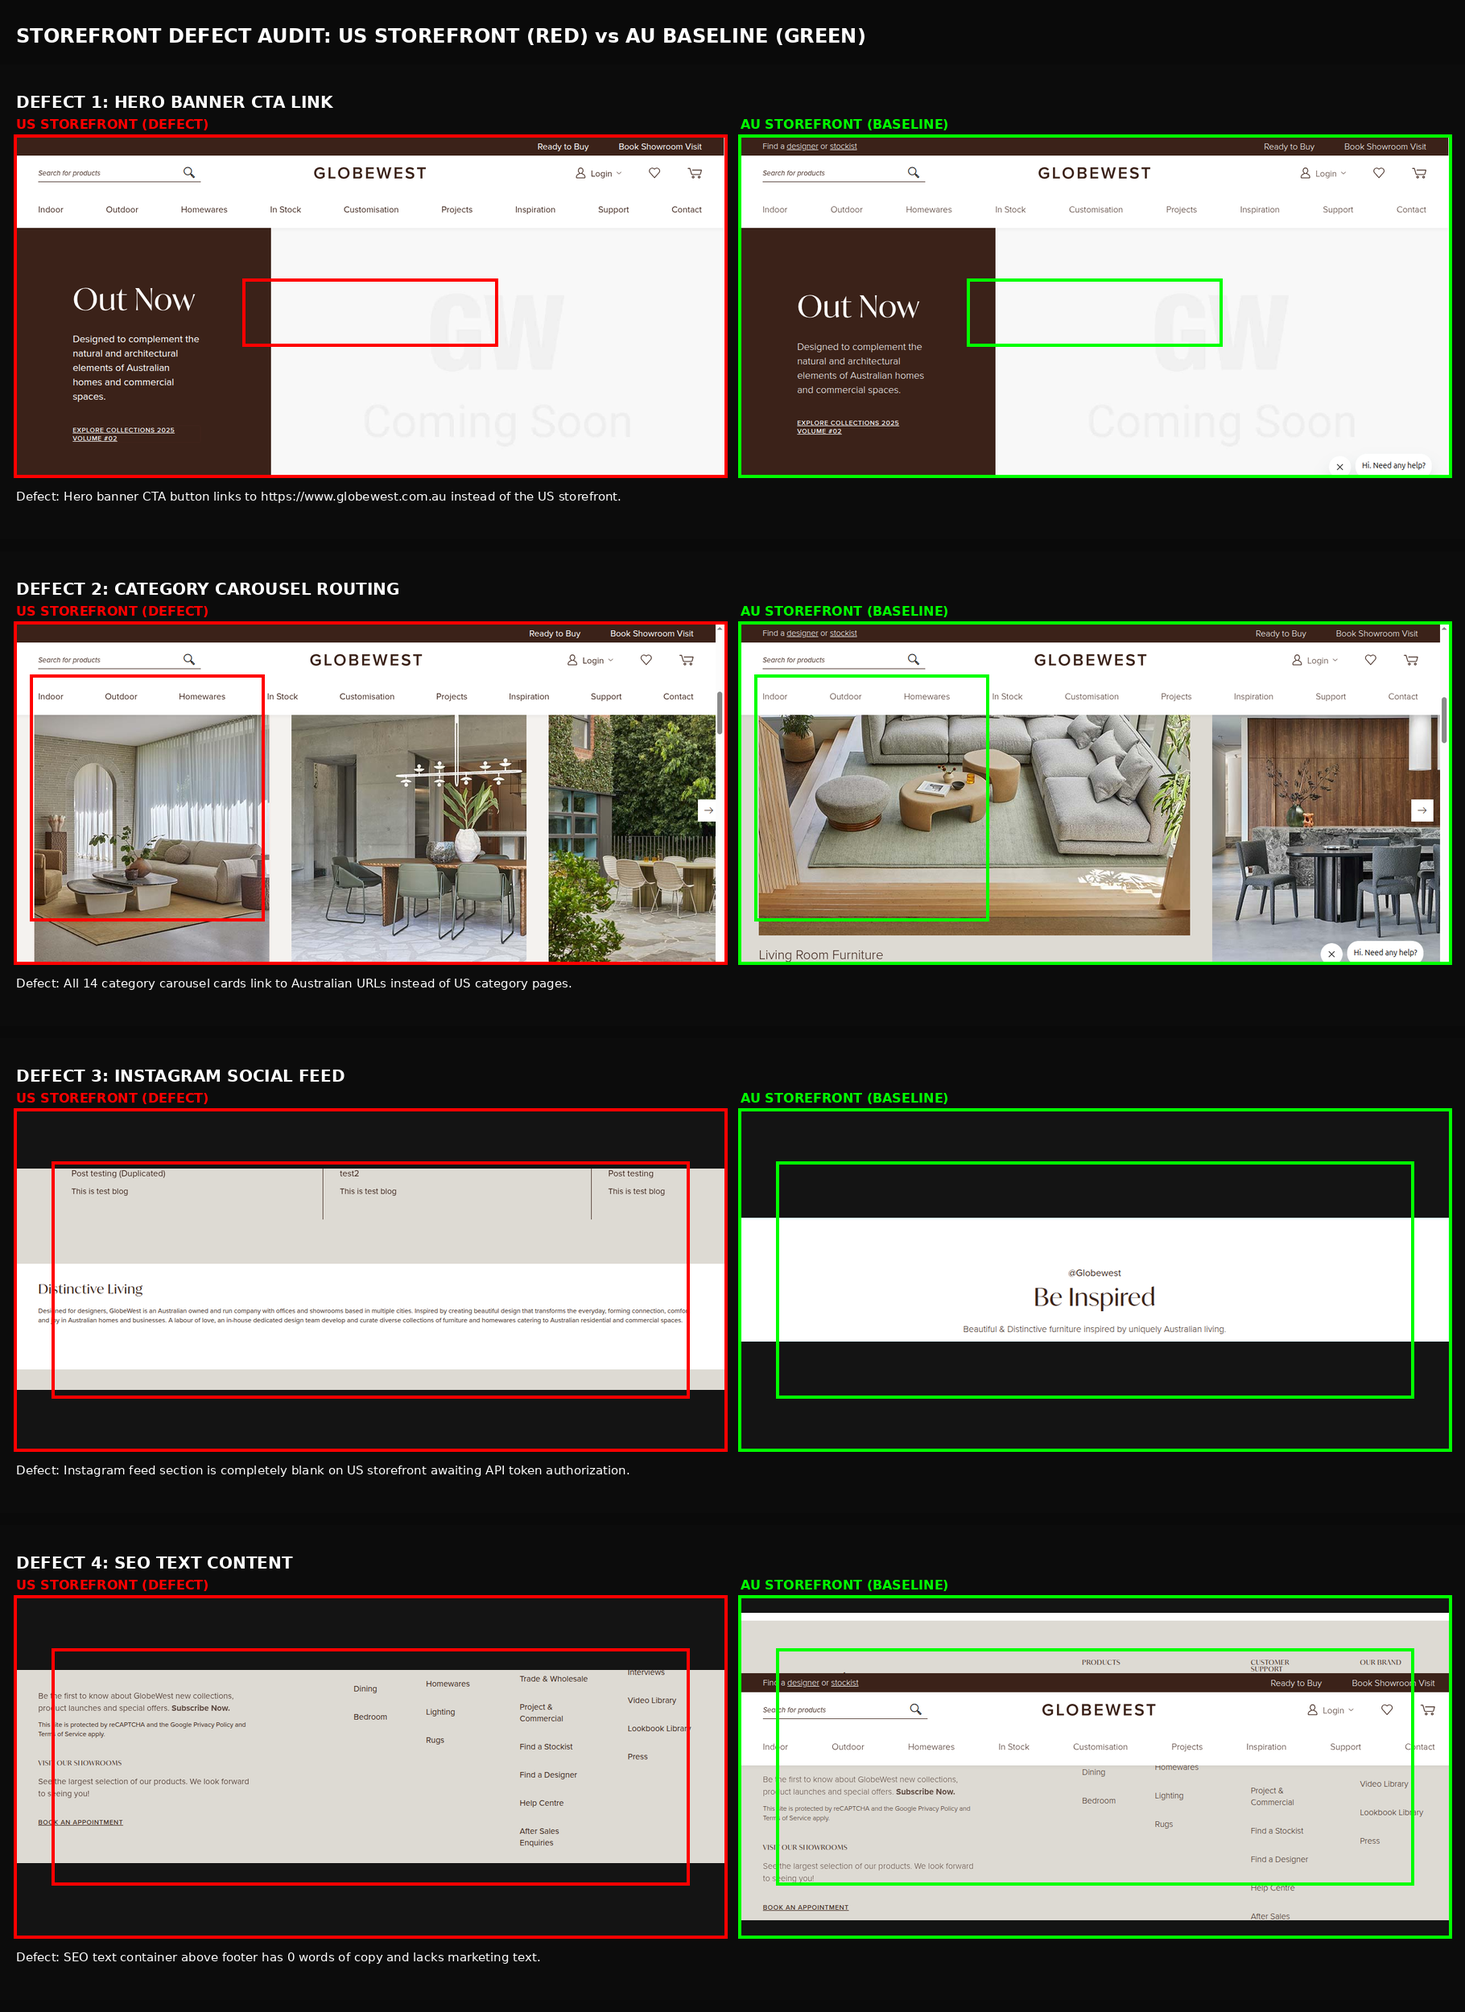
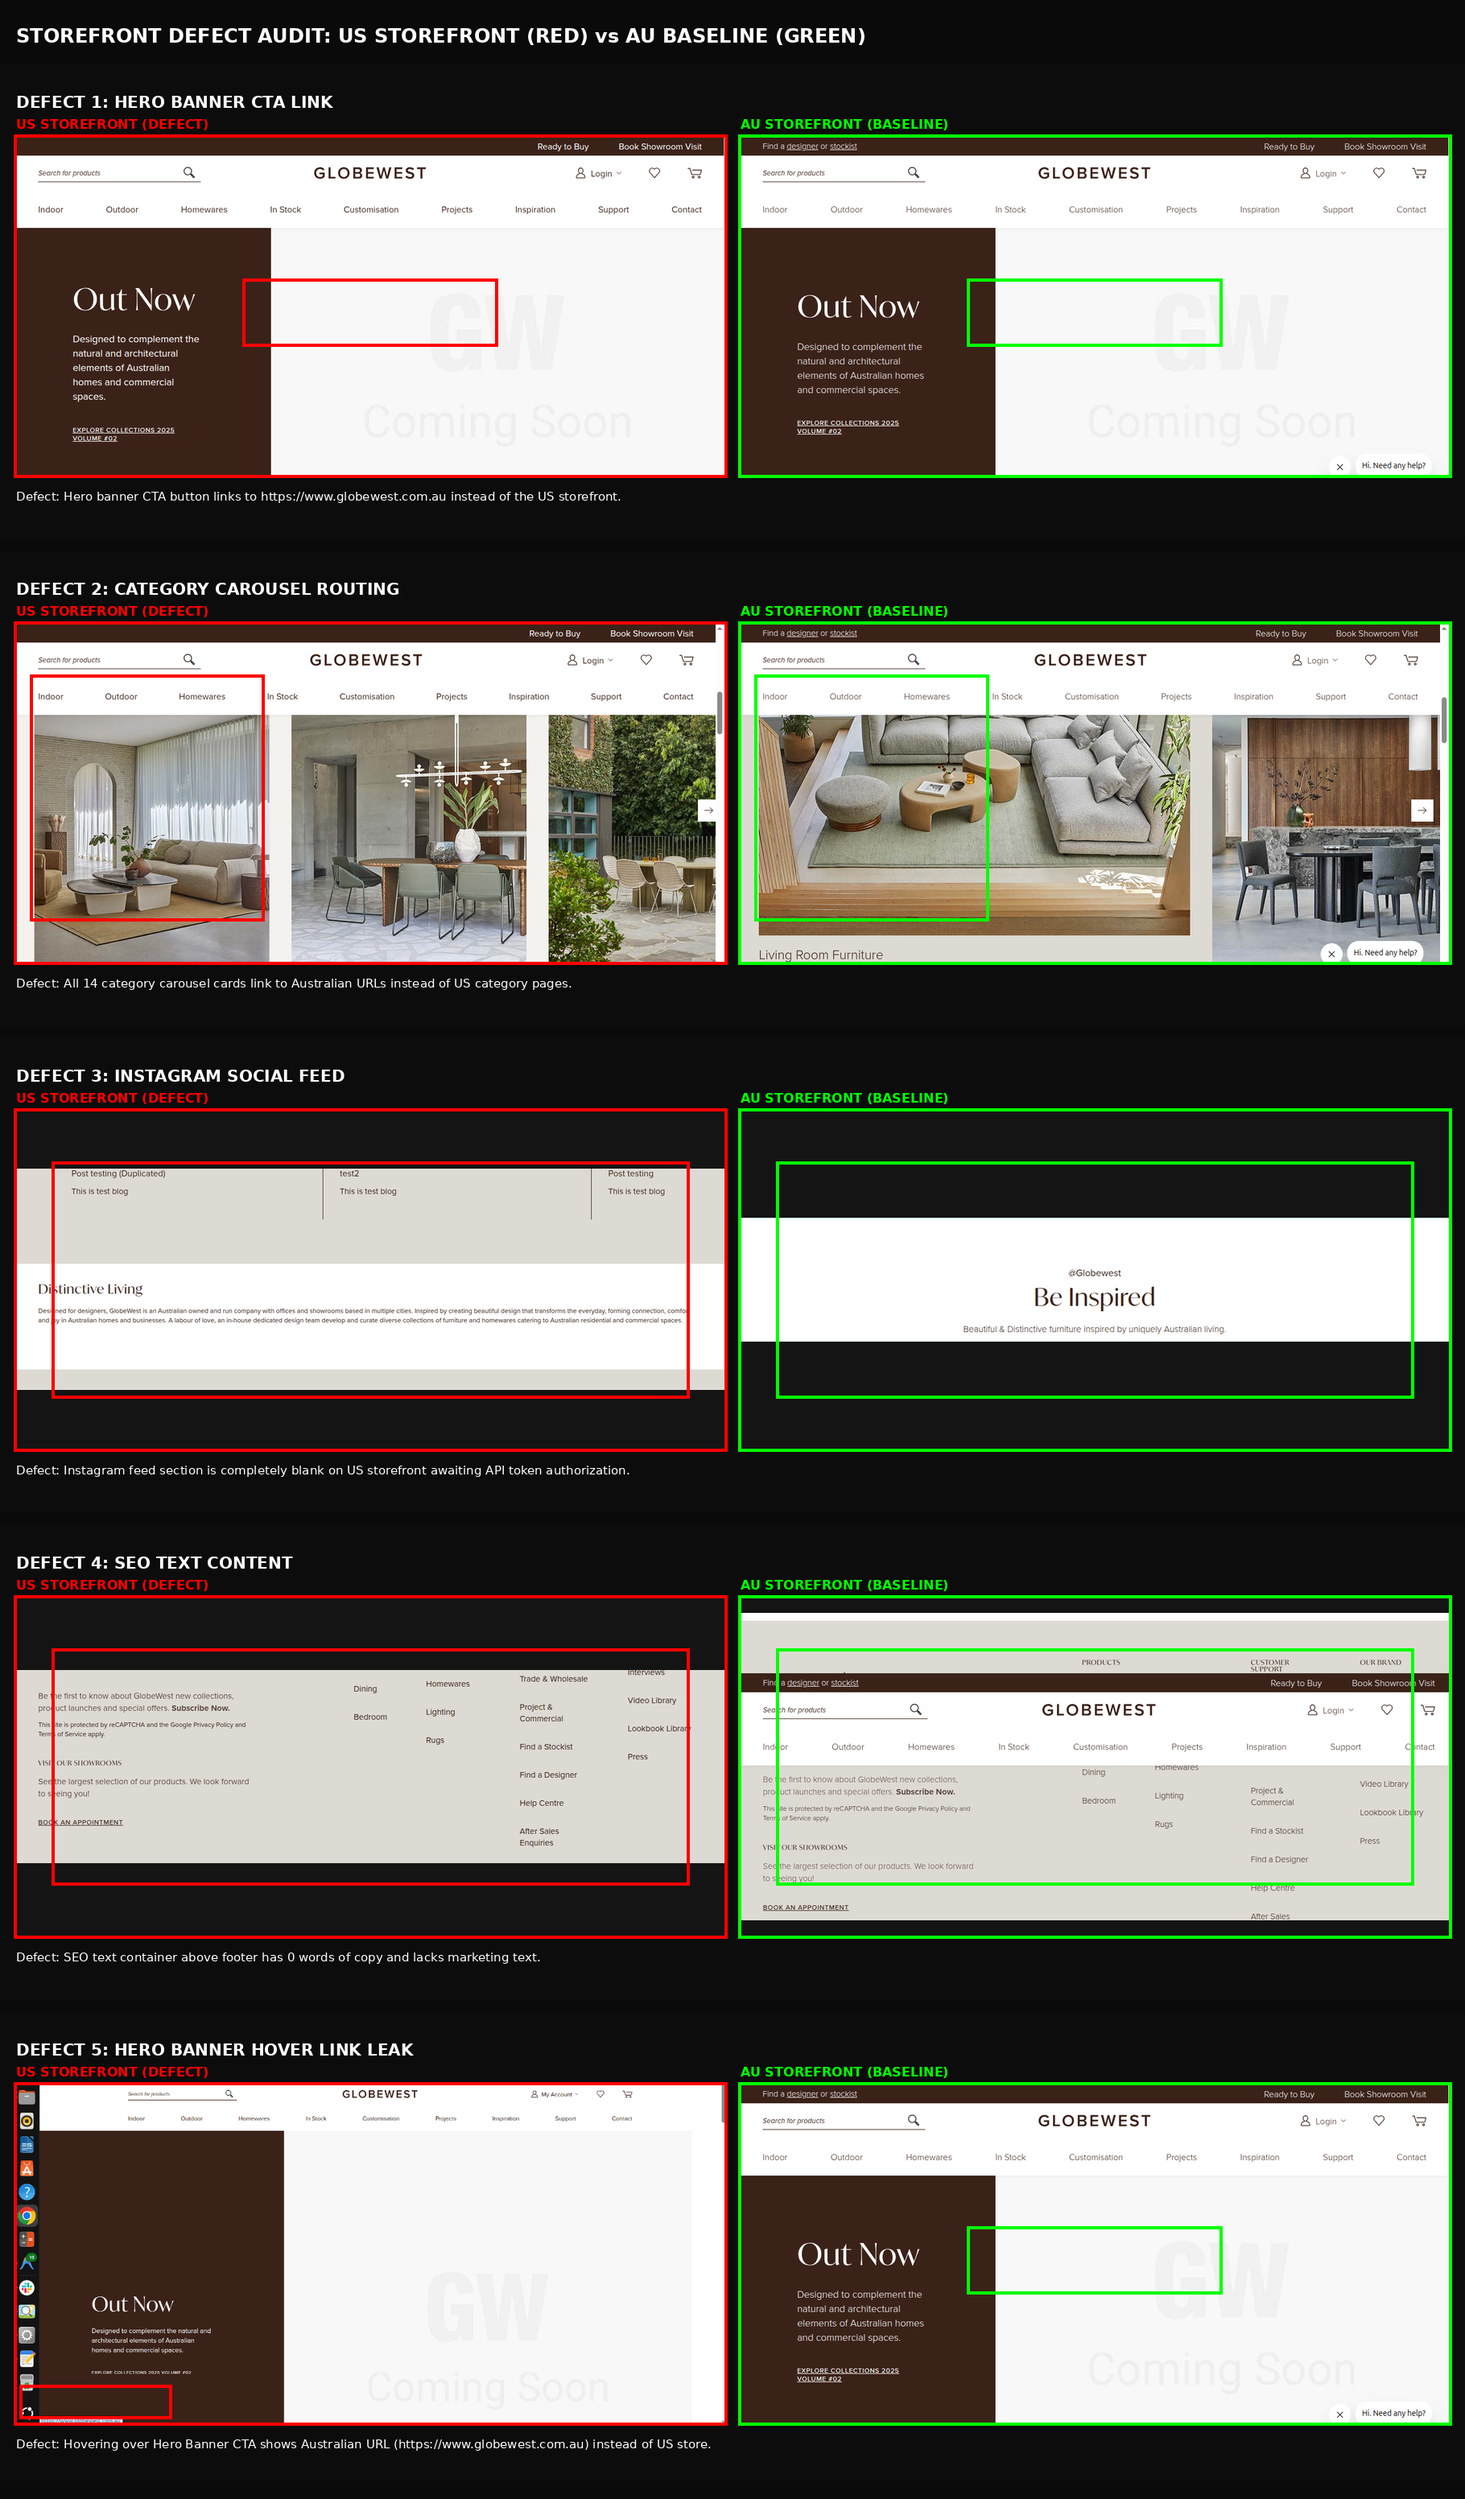
feat(ticket4): add simple Defect 5 comparison image in pure red/green format and update master comparison poster

diff --git a/Ticket 4 - Set up the CMS Structure/scripts/generate_simple_comparison.py b/Ticket 4 - Set up the CMS Structure/scripts/generate_simple_comparison.py
@@ -106,7 +106,7 @@ def create_simple_single_defect(
     return img
 
 def create_one_combined_master(single_images, explanations, titles, out_path):
-    # Combine all 4 defect comparisons vertically into exactly ONE master comparison image
+    # Combine all defect comparisons vertically into exactly ONE master comparison image
     w = single_images[0].size[0]
     pad = 20
     top_banner_h = 60
@@ -134,6 +134,14 @@ def run():
     out_dir = os.path.join(base_dir, 'screenshots/simple_defect_reports')
     os.makedirs(out_dir, exist_ok=True)
     
+    # Crop user screenshot for Defect 5 to preserve status bar
+    user_screen = '/home/deepali/.gemini/antigravity-ide/brain/35949052-5130-4815-b7ea-118ef98c2f2b/.user_uploaded/media_1789033963791.png'
+    us_hover_crop_path = os.path.join(sec_dir, 'TC_US_Hover_Status_Leak.png')
+    if os.path.exists(user_screen):
+        src_im = Image.open(user_screen)
+        cropped = src_im.crop((0, 85, 1024, 578))
+        cropped.save(us_hover_crop_path)
+    
     defects = [
         {
             'num': 1,
@@ -142,6 +150,7 @@ def run():
             'us_img': os.path.join(sec_dir, 'DEFECT_Section_1_Hero_Banner_AU_Leak.png'),
             'au_img': os.path.join(au_dir, 'AU_Section_1_Hero_Banner.png'),
             'us_box': (0.32, 0.42, 0.68, 0.62),
+            'us_box_label': None,
             'au_box': (0.32, 0.42, 0.68, 0.62),
             'file': 'DEFECT_1_HERO_BANNER_CTA.png'
         },
@@ -152,6 +161,7 @@ def run():
             'us_img': os.path.join(sec_dir, 'DEFECT_Section_3_Category_Card_1_AU_Leak.png'),
             'au_img': os.path.join(au_dir, 'AU_Section_2_Category_Carousel.png'),
             'us_box': (0.02, 0.15, 0.35, 0.88),
+            'us_box_label': None,
             'au_box': (0.02, 0.15, 0.35, 0.88),
             'file': 'DEFECT_2_CATEGORY_CAROUSEL.png'
         },
@@ -162,6 +172,7 @@ def run():
             'us_img': os.path.join(sec_dir, 'Section_6_insta-us-block-home-page.png'),
             'au_img': os.path.join(au_dir, 'AU_Section_7_Instagram_Feed.png'),
             'us_box': (0.05, 0.15, 0.95, 0.85),
+            'us_box_label': None,
             'au_box': (0.05, 0.15, 0.95, 0.85),
             'file': 'DEFECT_3_INSTAGRAM_FEED.png'
         },
@@ -172,8 +183,20 @@ def run():
             'us_img': os.path.join(sec_dir, 'Section_9_home-us-seo-text.png'),
             'au_img': os.path.join(au_dir, 'AU_Section_9_SEO_Text_FullWidth.png'),
             'us_box': (0.05, 0.15, 0.95, 0.85),
+            'us_box_label': None,
             'au_box': (0.05, 0.15, 0.95, 0.85),
             'file': 'DEFECT_4_SEO_TEXT.png'
+        },
+        {
+            'num': 5,
+            'title': 'Hero Banner Hover Link Leak',
+            'exp': 'Hovering over Hero Banner CTA shows Australian URL (https://www.globewest.com.au) instead of US store.',
+            'us_img': us_hover_crop_path,
+            'au_img': os.path.join(au_dir, 'AU_Section_1_Hero_Banner.png'),
+            'us_box': (0.005, 0.89, 0.22, 0.99),
+            'us_box_label': 'AU LEAK: globewest.com.au',
+            'au_box': (0.32, 0.42, 0.68, 0.62),
+            'file': 'DEFECT_5_HERO_BANNER_HOVER.png'
         }
     ]
     
